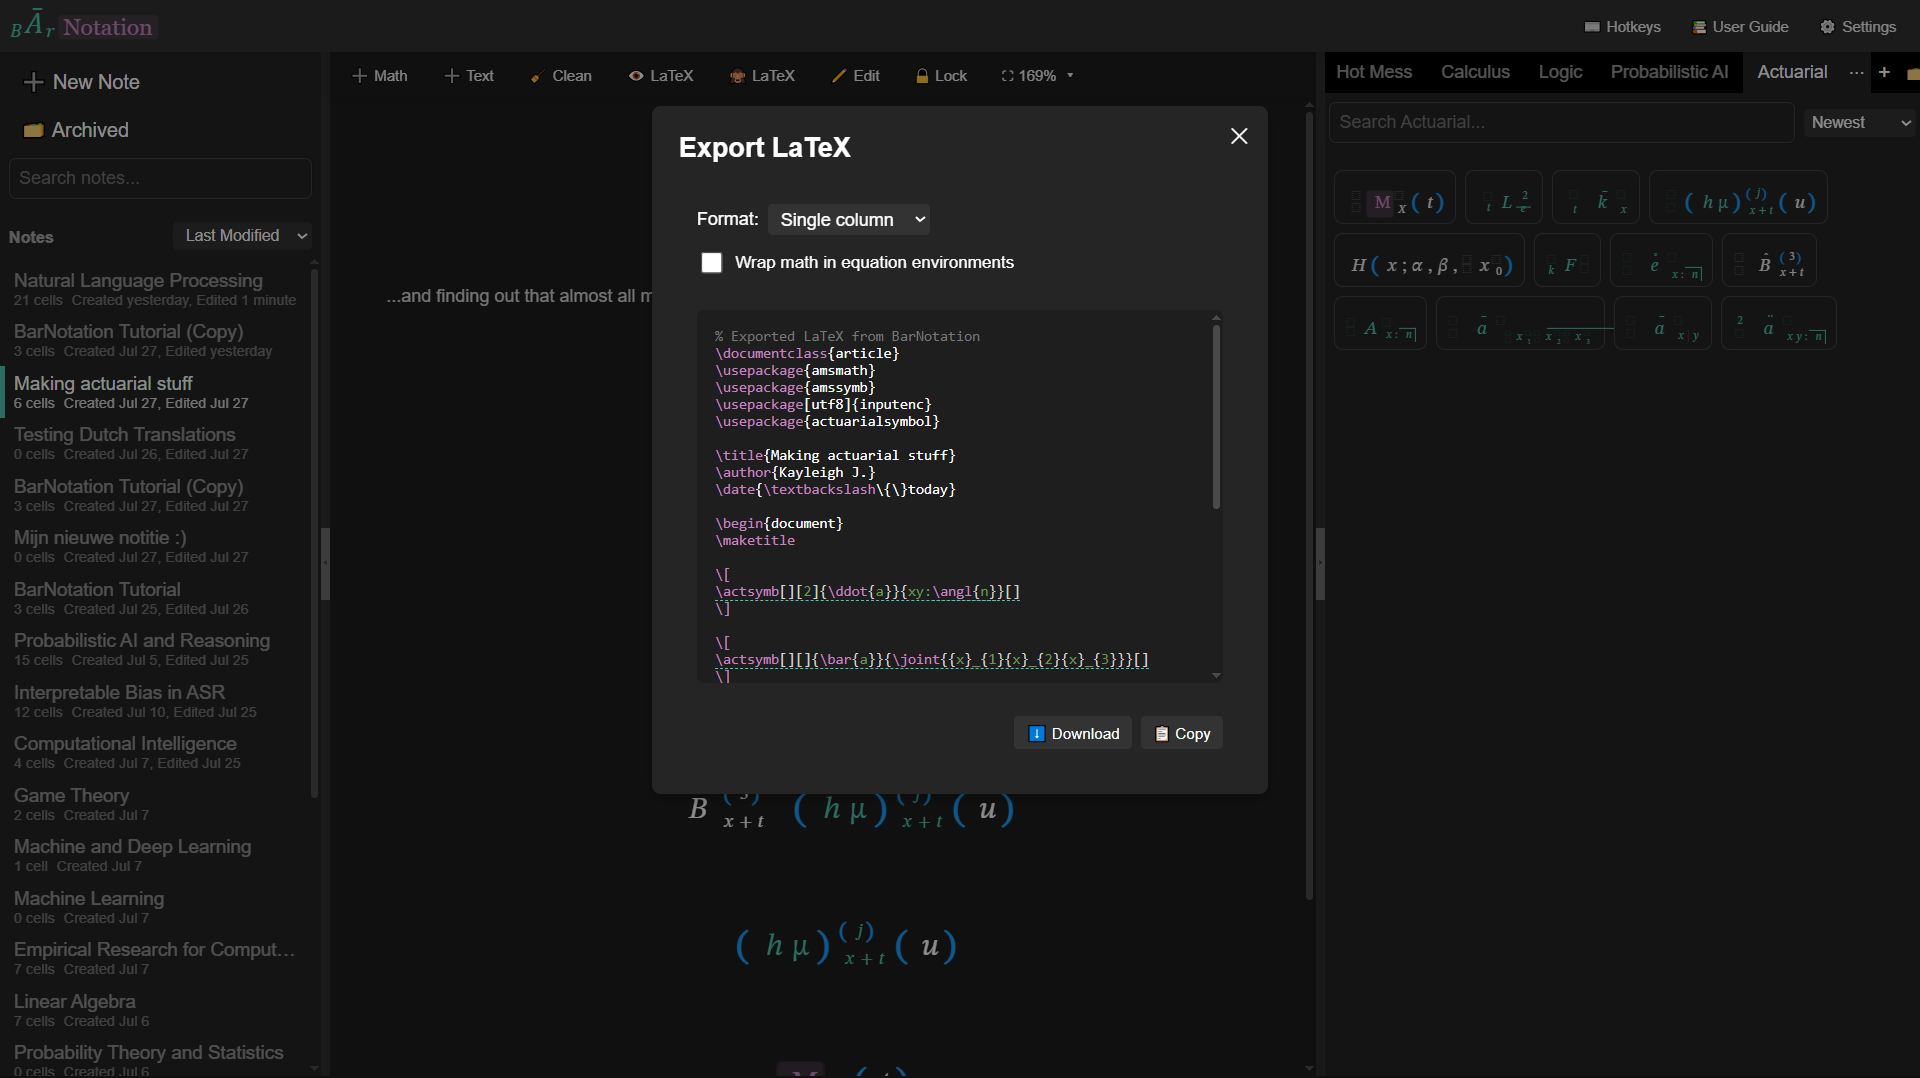
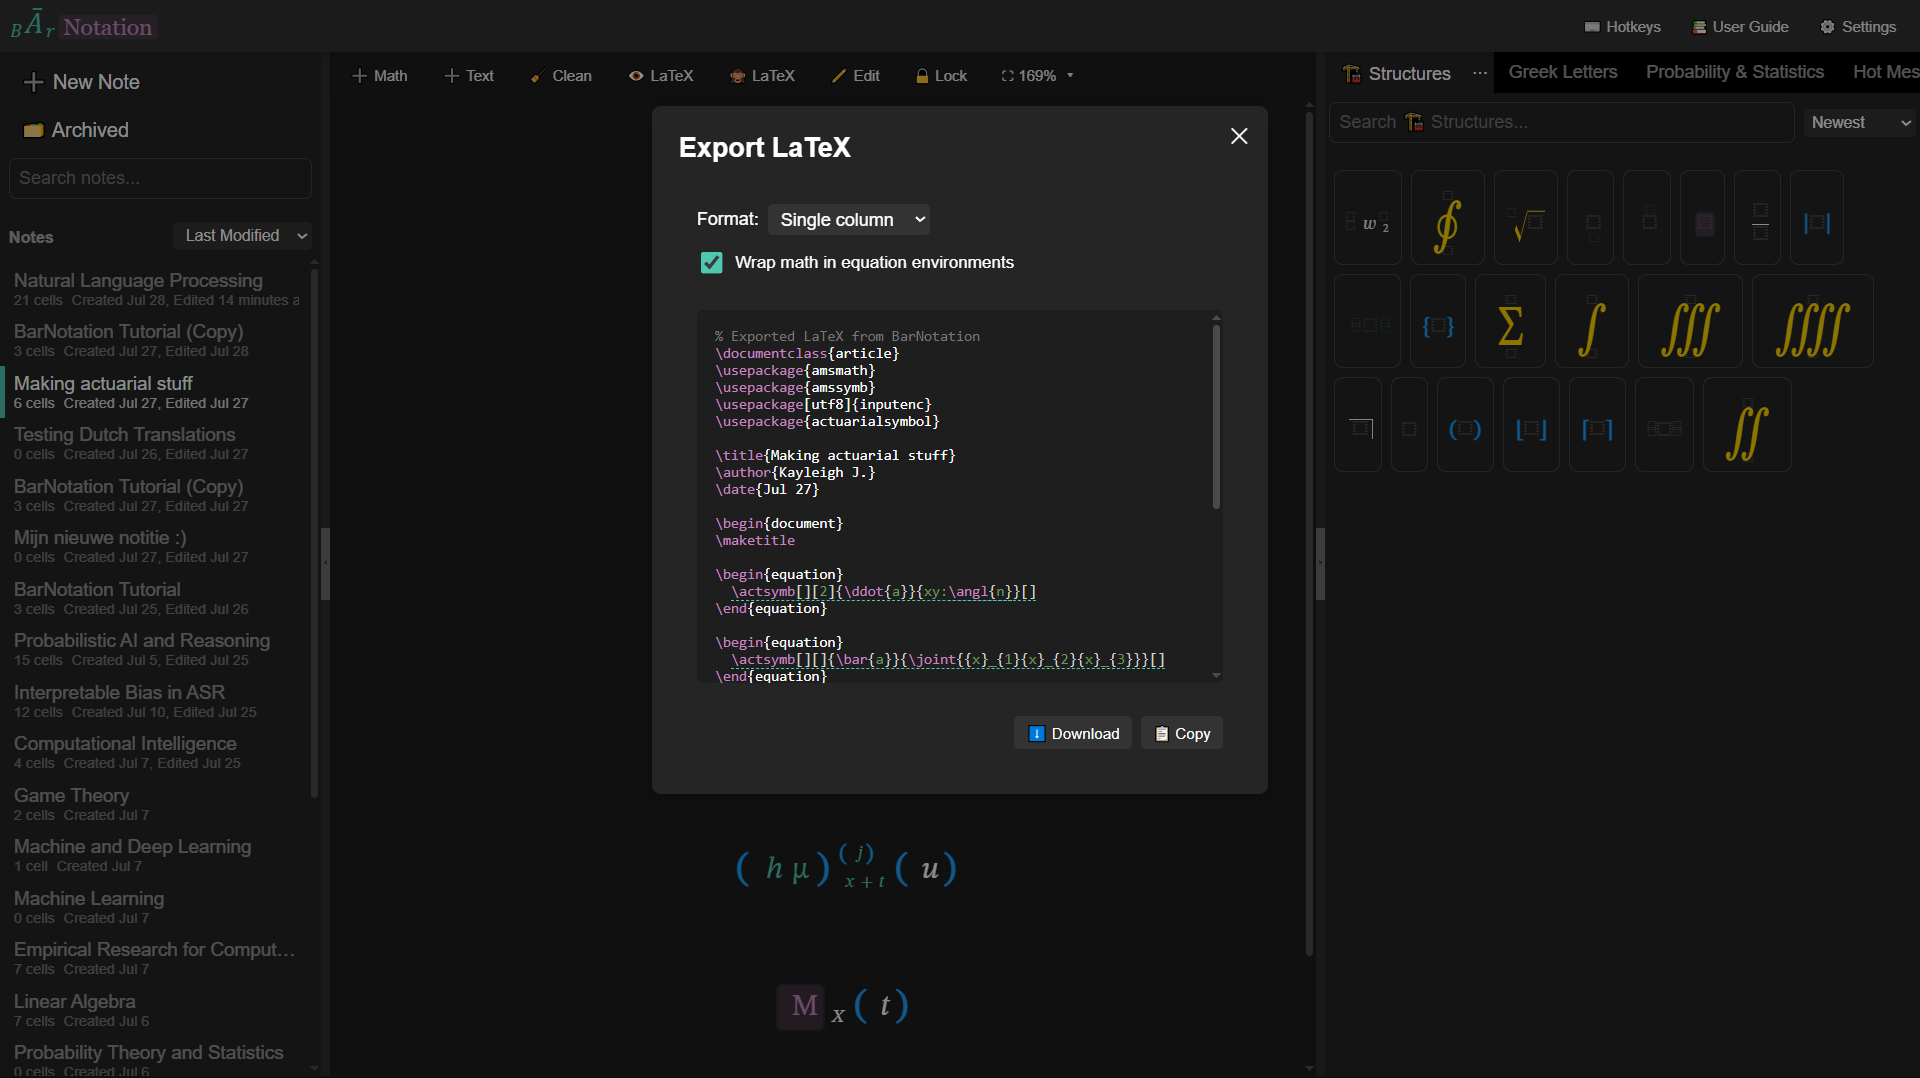
Fix LaTeX export date fallback, update image for walkthrough

diff --git a/src/utils/latexUtils/latexExportFormatters.ts b/src/utils/latexUtils/latexExportFormatters.ts
@@ -17,6 +17,18 @@ export interface LatexExportTemplate {
   renderFooter(): string;
 }
 
+function getLatexSafeDate(note: Note): string {
+  const fallbackDate = (date?: string | number) =>
+    date ? new Date(date).toLocaleDateString("en-US", { month: "short", day: "numeric" }) : "";
+
+  return escapeLatex(
+    note.metadata.dateOrPeriod ||
+    fallbackDate(note.metadata.updatedAt) ||  // If no date is given, take "last edited"
+    fallbackDate(note.metadata.createdAt) ||  // If never edited, take creation date
+    fallbackDate(Date.now())                  // else take date of exporting
+  );
+}
+
 function stripOuterDisplayMath(content: string): string {
   const parser = new DOMParser();
   const doc = parser.parseFromString(`<div>${content}</div>`, "text/html");
@@ -91,11 +103,11 @@ function defaultPreamble(note: Note, options: LatexExportOptions): string {
     ``,
     `\\title{${escapeLatex(note.metadata.title || "Untitled")}}`,
     `\\author{${escapeLatex(note.metadata.author || "Anonymous")}}`,
-    `\\date{${escapeLatex(note.metadata.dateOrPeriod || "\\today")}}`,
+    `\\date{${getLatexSafeDate(note)}}`,
     ``,
     `\\begin{document}`,
     `\\maketitle`
-  );
+  );  
 
   return lines.join("\n");
 }
